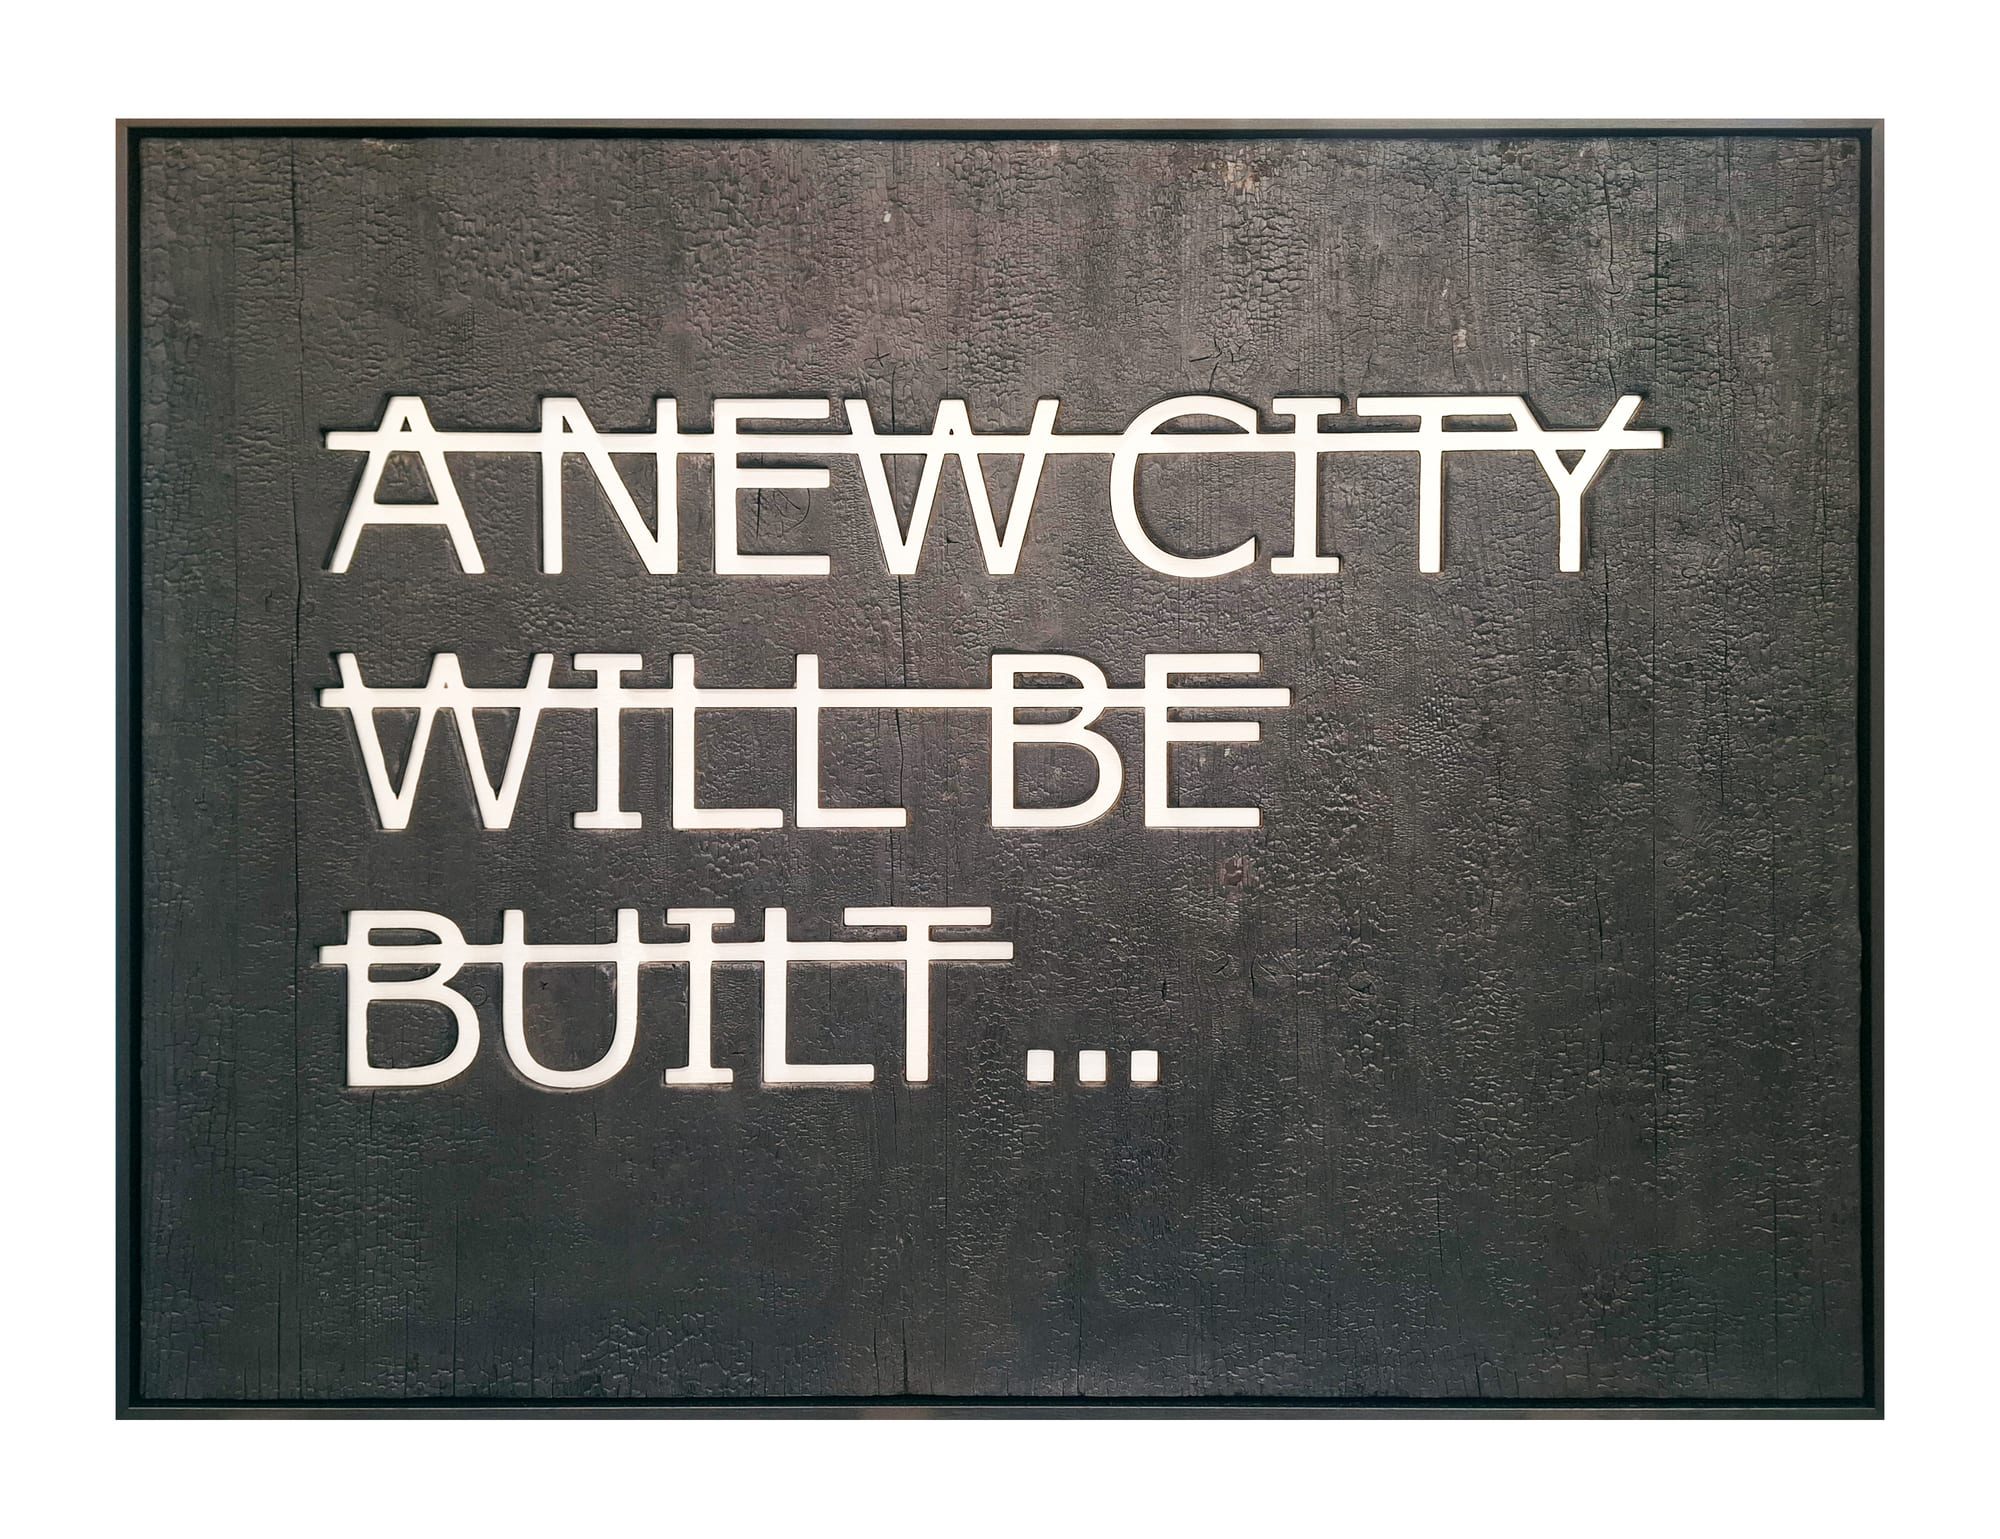
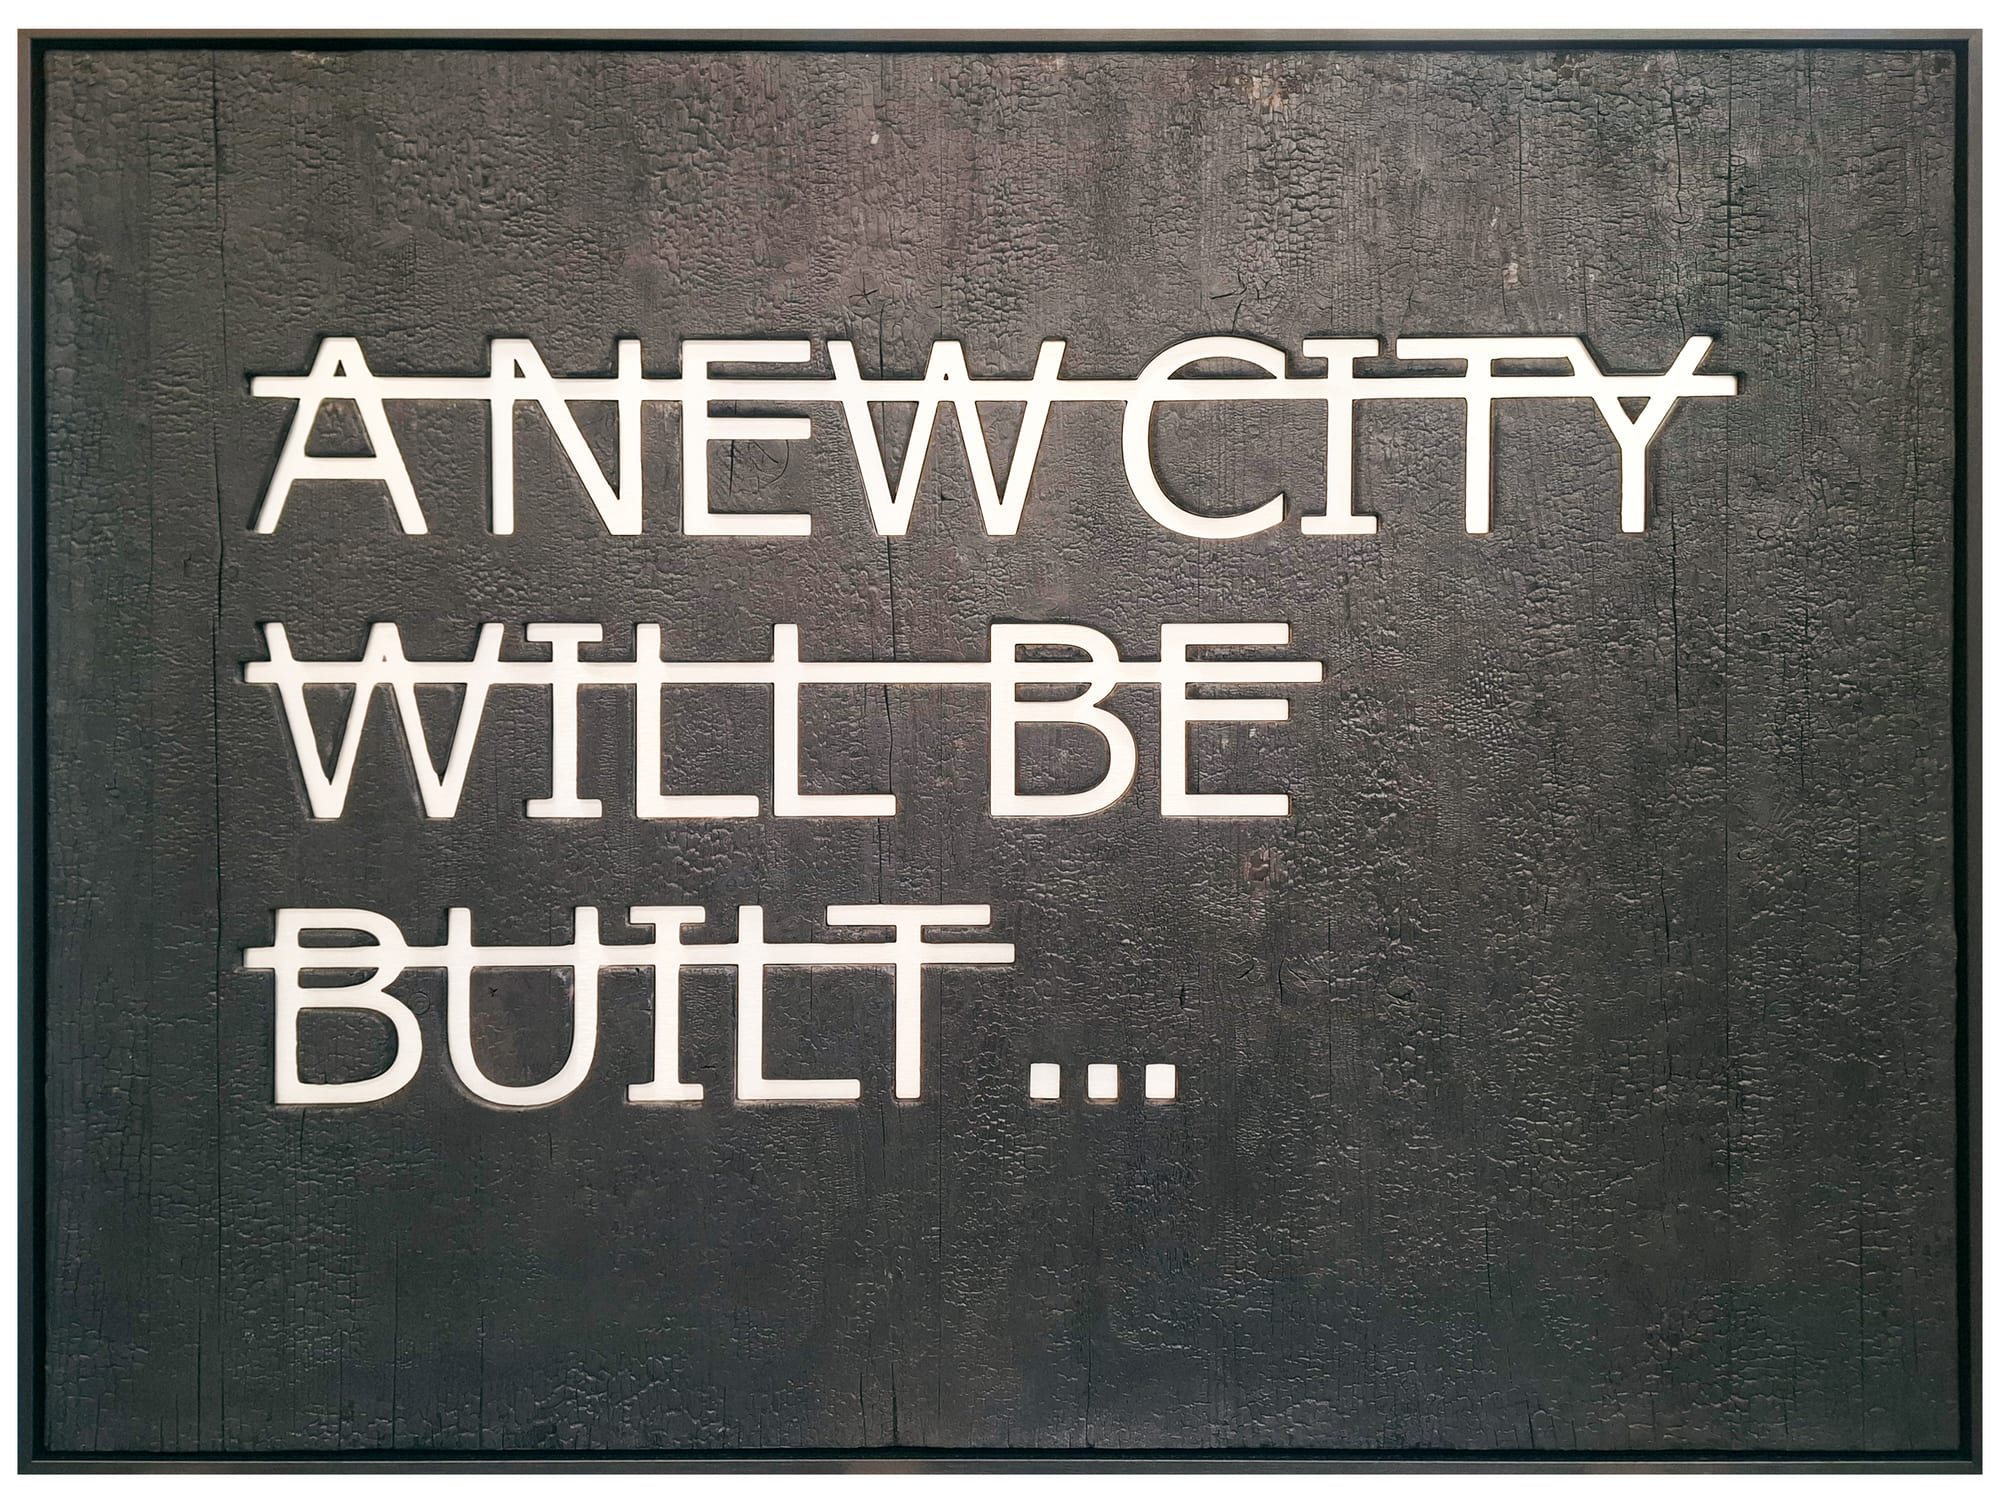
Collect page: crop RERO's photo tighter, drop the white margin
sharp's auto-trim couldn't find a clean enough edge (subtle vignette in
the source photo), so cropped manually (~5% sides, 6%/7% top/bottom) —
frame stays fully intact, the surrounding white space is gone. Updated
imageHeight to match the new crop (2000x1487).

diff --git a/lib/storefront.ts b/lib/storefront.ts
@@ -117,7 +117,7 @@ export const ARTWORKS: Artwork[] = [
     status: 'available',
     image: '/images/storefront/rero-a-new-city-will-be-built.jpg',
     imageWidth: 2000,
-    imageHeight: 1539,
+    imageHeight: 1487,
   },
   {
     id: 'anyanwu-pyramid',